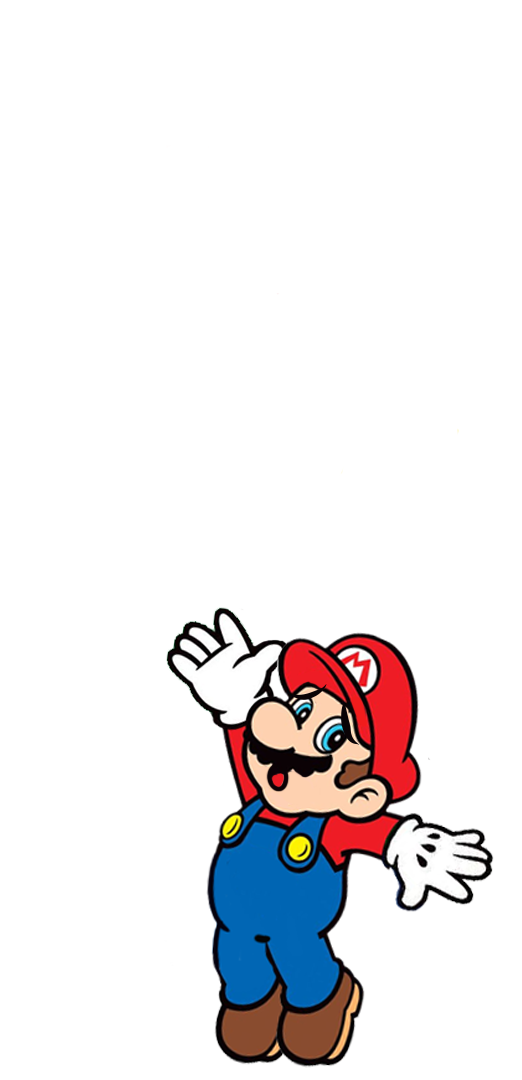
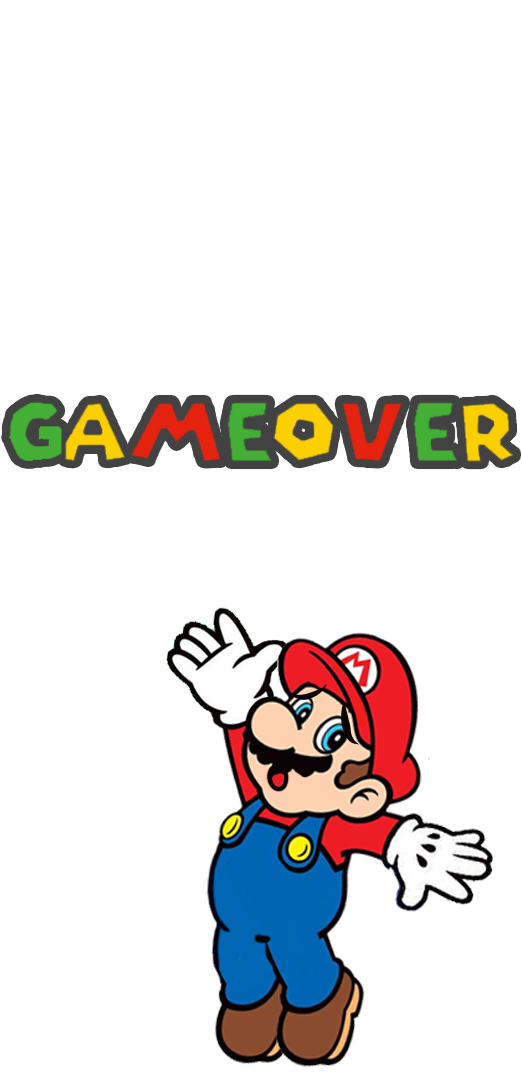
ajustando background e imagem

Changed region(s): [[0.0, 0.3667, 1.0, 0.4583]]

diff --git a/js/func-verificapalavra.js b/js/func-verificapalavra.js
@@ -36,6 +36,7 @@ const palavras = [
 // Iniciando o jogo.
 criarPalavraSecreta();
 montarPalavraNaTela();
+
 function criarPalavraSecreta() {
     const indexPalavra = parseInt(Math.random() * palavras.length);
     palavraSecretaSorteada = palavras[indexPalavra].nome.toUpperCase();
@@ -62,10 +63,6 @@ function verificaLetraEscolhida(letra) {
         validarLetra(letra);
         montarPalavraNaTela();
         comparaListas();
-    } else {
-        setTimeout(() => {
-            alert(`Acabaram suas chances! A palavra era: ${palavraSecretaSorteada}.`);
-        }, 100);
     }
 }
 
@@ -89,12 +86,10 @@ function validarLetra(letra) {
         }
     }
     if (!acertou) {
-        console.log('Tentativas: ' + tentativas);
         tentativas--;
-        console.log('Tentativas: ' + tentativas);
         if (tentativas === 0) {
             setTimeout(() => {
-            alert(`Acabaram suas chances! A palavra era: ${palavraSecretaSorteada}`);
+            alert(`Acabaram suas chances... A palavra era: ${palavraSecretaSorteada}`);
         }, 100);
             animarBtnReiniciar();
         }

diff --git a/css/style.css b/css/style.css
@@ -7,7 +7,7 @@ body {
     width: 100vw;
     height: 100vh;
     padding: 10px;
-    background-image: url(../img/bkg-img-4.png);
+    background-image: url(../img/bkg-img.png);
     background-repeat: no-repeat;
     background-size: cover;
     background-position: center;
